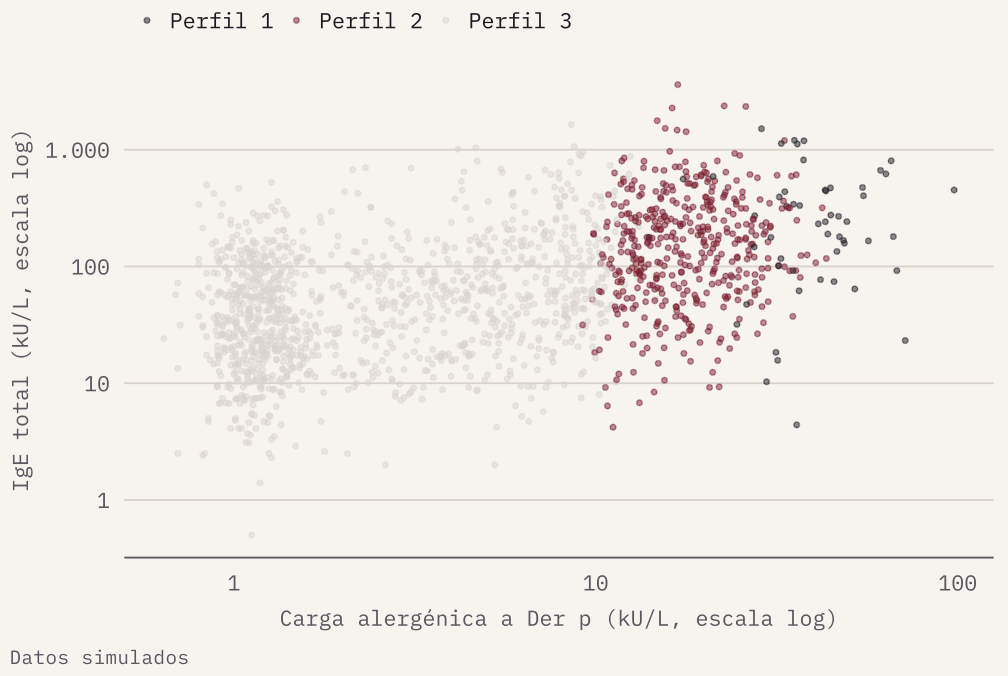
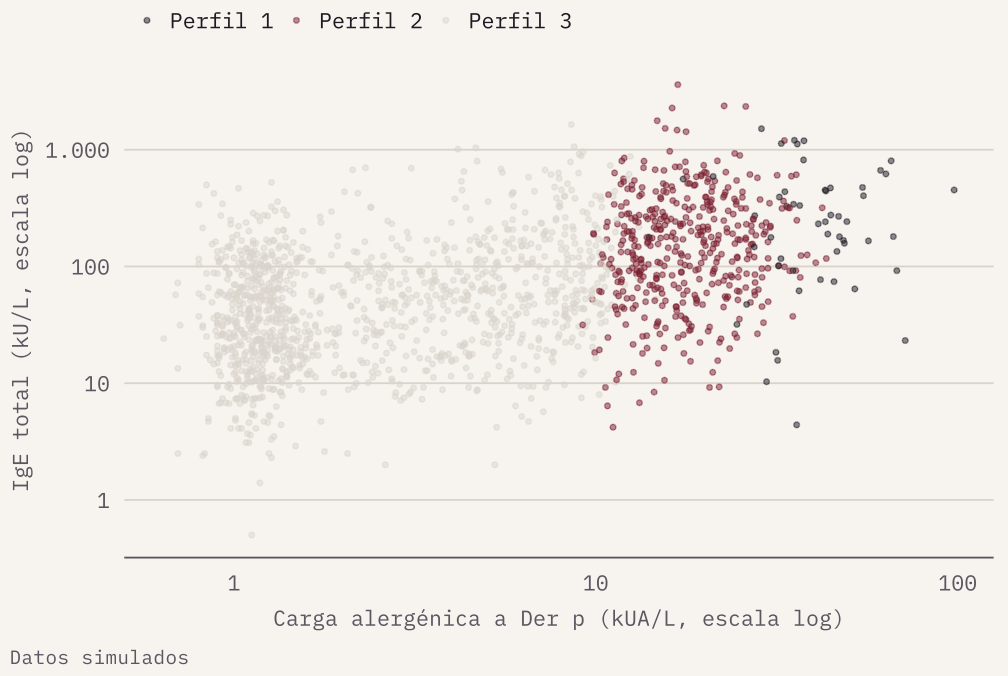
Unidades kUA/L para IgE específica; ignorar analisis.html
Claude-Session: https://claude.ai/code/session_01K2xPuJKV2KHVuiKsmZzJ5n

Changed region(s): [[0.2768, 0.9009, 0.8304, 0.932]]

diff --git a/analisis.md b/analisis.md
@@ -47,12 +47,12 @@ plataforma multiplex ALEX2.
 
 **Variables principales**
 
-| Variable               | Descripción                                                                                                                        |
-|------------------------|------------------------------------------------------------------------------------------------------------------------------------|
-| `id`                   | Identificador ficticio del paciente                                                                                                |
-| `age`                  | Edad en años (vacía si no consta la fecha de nacimiento)                                                                           |
-| `total_ige`            | IgE total (kU/L)                                                                                                                   |
-| `der_p_1` … `der_p_23` | IgE específica (kU/L) frente a 9 componentes de Der p: 1, 2, 5, 7, 10, 11, 20, 21 y 23. Los valores “\< 0,10” se guardan como 0,10 |
+| Variable               | Descripción                                                                                                                         |
+|------------------------|-------------------------------------------------------------------------------------------------------------------------------------|
+| `id`                   | Identificador ficticio del paciente                                                                                                 |
+| `age`                  | Edad en años (vacía si no consta la fecha de nacimiento)                                                                            |
+| `total_ige`            | IgE total (kU/L)                                                                                                                    |
+| `der_p_1` … `der_p_23` | IgE específica (kUA/L) frente a 9 componentes de Der p: 1, 2, 5, 7, 10, 11, 20, 21 y 23. Los valores “\< 0,10” se guardan como 0,10 |
 
 > **Datos simulados.** Este repositorio no contiene datos de pacientes.
 > El archivo `data/der_p_simulado.csv` lo genera `R/simular_datos.R` con
@@ -79,7 +79,7 @@ ALLERGENS <- c("der_p_1", "der_p_2", "der_p_5", "der_p_7", "der_p_10",
                "der_p_11", "der_p_20", "der_p_21", "der_p_23")
 ALLERGEN_LABELS <- setNames(sub("der_p_", "Der p ", ALLERGENS), ALLERGENS)
 
-SENS_CUTOFF <- 0.35   # sensibilización: IgE específica >= 0,35 kU/L
+SENS_CUTOFF <- 0.35   # sensibilización: IgE específica >= 0,35 kUA/L
 AGE_BREAKS  <- c(-Inf, 5, 11, 17, Inf)
 AGE_LABELS  <- c("0-5", "6-11", "12-17", "18+")
 K_CLUSTERS  <- 3      # número de perfiles en el k-means
@@ -620,7 +620,7 @@ ggplot(filter(der_p, der_p_load > 0), aes(der_p_load, total_ige, colour = cluste
                                  pmenor_col[["linea"]])) +
   scale_x_log10(labels = numeros_pmenor()) +
   scale_y_log10(labels = numeros_pmenor()) +
-  labs(x = "Carga alergénica a Der p (kU/L, escala log)",
+  labs(x = "Carga alergénica a Der p (kUA/L, escala log)",
        y = "IgE total (kU/L, escala log)", caption = "Datos simulados")
 ```
 

diff --git a/README.md b/README.md
@@ -21,12 +21,12 @@ diferenciados?
 ## El análisis
 
 1.685 pacientes estudiados con la plataforma multiplex ALEX2, con IgE
-específica frente a 9 componentes de Der p. Sensibilización: IgE ≥ 0,35 kU/L.
+específica frente a 9 componentes de Der p. Sensibilización: IgE ≥ 0,35 kUA/L.
 
 | Pregunta | Método |
 |---|---|
 | ¿Qué componentes predominan? | Prevalencia de sensibilización por componente |
-| ¿Cambia con la edad? | χ² o Fisher por componente; Kruskal-Wallis y Dunn para niveles de IgE. |
+| ¿Cambia con la edad? | χ² o Fisher por componente; Kruskal-Wallis y Dunn para niveles de IgE |
 | ¿Más componentes, más IgE total? | Correlación de Spearman |
 | ¿Qué componentes van juntos? | Gráfico UpSet, mapa de calor y análisis de componentes principales |
 | ¿Hay perfiles de pacientes? | k-means (k = 3) y su distribución por edad |
